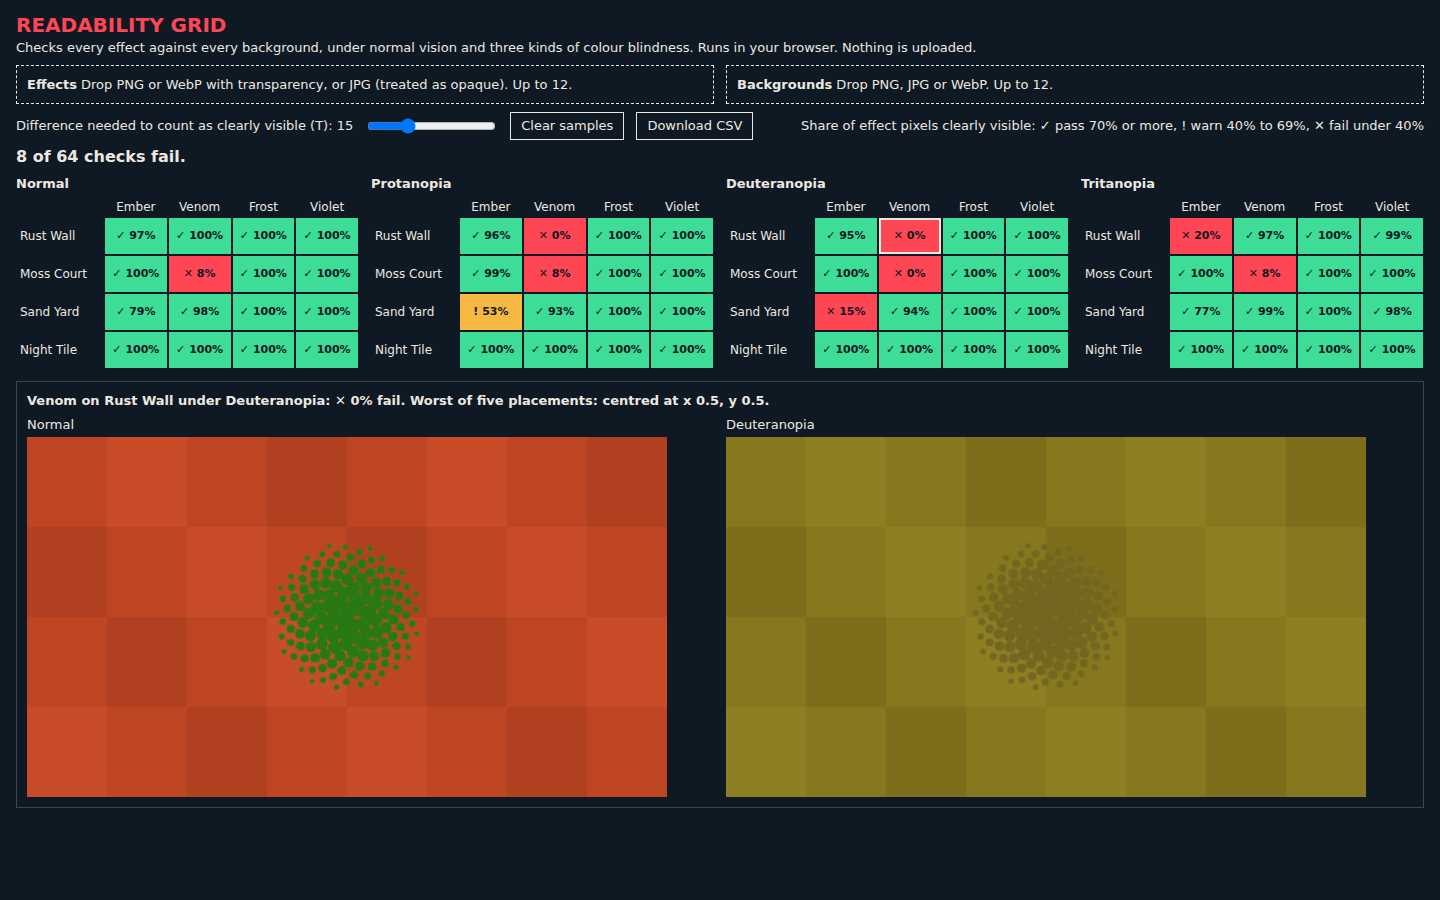
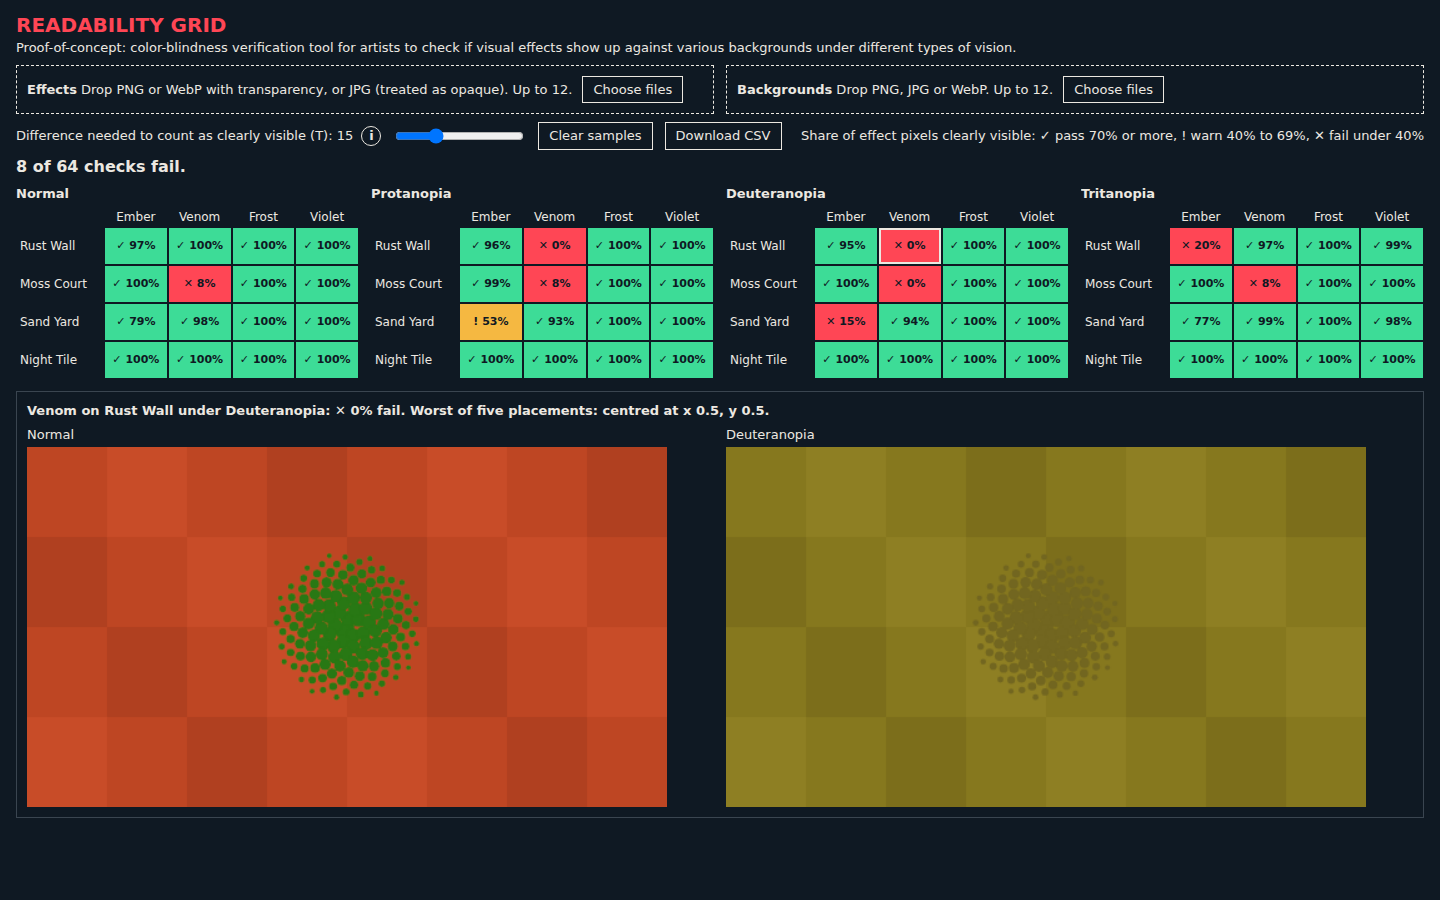
Add Choose files buttons, a plain-language note on difference, and the new subtitle

diff --git a/index.html b/index.html
@@ -10,16 +10,26 @@
 <body>
   <header>
     <h1>Readability Grid</h1>
-    <p>Checks every effect against every background, under normal vision and three kinds of colour blindness. Runs in your browser. Nothing is uploaded.</p>
+    <p>Proof-of-concept: color-blindness verification tool for artists to check if visual effects show up against various backgrounds under different types of vision.</p>
   </header>
 
   <div class="zones">
-    <div class="zone" id="drop-effects"><strong>Effects</strong> Drop PNG or WebP with transparency, or JPG (treated as opaque). Up to 12.</div>
-    <div class="zone" id="drop-backgrounds"><strong>Backgrounds</strong> Drop PNG, JPG or WebP. Up to 12.</div>
+    <div class="zone" id="drop-effects"><strong>Effects</strong> Drop PNG or WebP with transparency, or JPG (treated as opaque). Up to 12.
+      <button type="button">Choose files</button>
+      <input type="file" multiple accept="image/png,image/jpeg,image/webp" hidden>
+    </div>
+    <div class="zone" id="drop-backgrounds"><strong>Backgrounds</strong> Drop PNG, JPG or WebP. Up to 12.
+      <button type="button">Choose files</button>
+      <input type="file" multiple accept="image/png,image/jpeg,image/webp" hidden>
+    </div>
   </div>
 
   <div class="controls">
-    <label for="threshold">Difference needed to count as clearly visible (T): <output id="threshold-value">15</output></label>
+    <span>
+      <label for="threshold">Difference needed to count as clearly visible (T): <output id="threshold-value">15</output></label>
+      <button type="button" id="info" aria-label="About difference and the score" aria-describedby="threshold-note">i</button>
+      <p id="threshold-note" role="tooltip">Difference is a standard formula (CIEDE2000) that turns two colors into lightness, red-green and yellow-blue values and measures how far apart they are, adjusted to match how people see; bigger means easier to tell apart. The score is the share of the effect's pixels that differ from the background by at least T, after both are recolored to simulate each kind of vision.</p>
+    </span>
     <input id="threshold" type="range" min="5" max="40" step="1" value="15">
     <button id="clear">Clear samples</button>
     <button id="csv" disabled>Download CSV</button>

diff --git a/style.css b/style.css
@@ -62,12 +62,47 @@ button:disabled {
   border: 1px dashed var(--text);
 }
 
+.zone button {
+  margin-left: 6px;
+}
+
 .controls {
   display: flex;
   flex-wrap: wrap;
   align-items: center;
   gap: 12px;
   margin-top: 8px;
+}
+
+/* The note sits over the page below the label, so showing it moves nothing. */
+.controls > span {
+  position: relative;
+}
+
+#info {
+  width: 20px;
+  height: 20px;
+  margin-left: 4px;
+  padding: 0;
+  border-radius: 50%;
+  font-weight: 700;
+}
+
+#threshold-note {
+  display: none;
+  position: absolute;
+  top: 100%;
+  left: 0;
+  z-index: 1;
+  max-width: 440px;
+  padding: 8px 10px;
+  border: 1px solid var(--text);
+  background: var(--background);
+}
+
+#info:hover + #threshold-note,
+#info:focus + #threshold-note {
+  display: block;
 }
 
 .legend {

diff --git a/src/app.js b/src/app.js
@@ -137,11 +137,11 @@ function downloadCsv() {
 
 function setUpDropZone(id, kind) {
   const zone = $(id);
+  const picker = zone.querySelector('input');
   zone.addEventListener('dragover', (event) => event.preventDefault());
-  zone.addEventListener('drop', (event) => {
-    event.preventDefault();
-    addFiles(kind, [...event.dataTransfer.files]);
-  });
+  zone.addEventListener('drop', (event) => { event.preventDefault(); addFiles(kind, [...event.dataTransfer.files]); });
+  zone.querySelector('button').addEventListener('click', () => picker.click());
+  picker.addEventListener('change', () => { addFiles(kind, [...picker.files]); picker.value = ''; });
 }
 
 setUpDropZone('drop-effects', 'effects');
